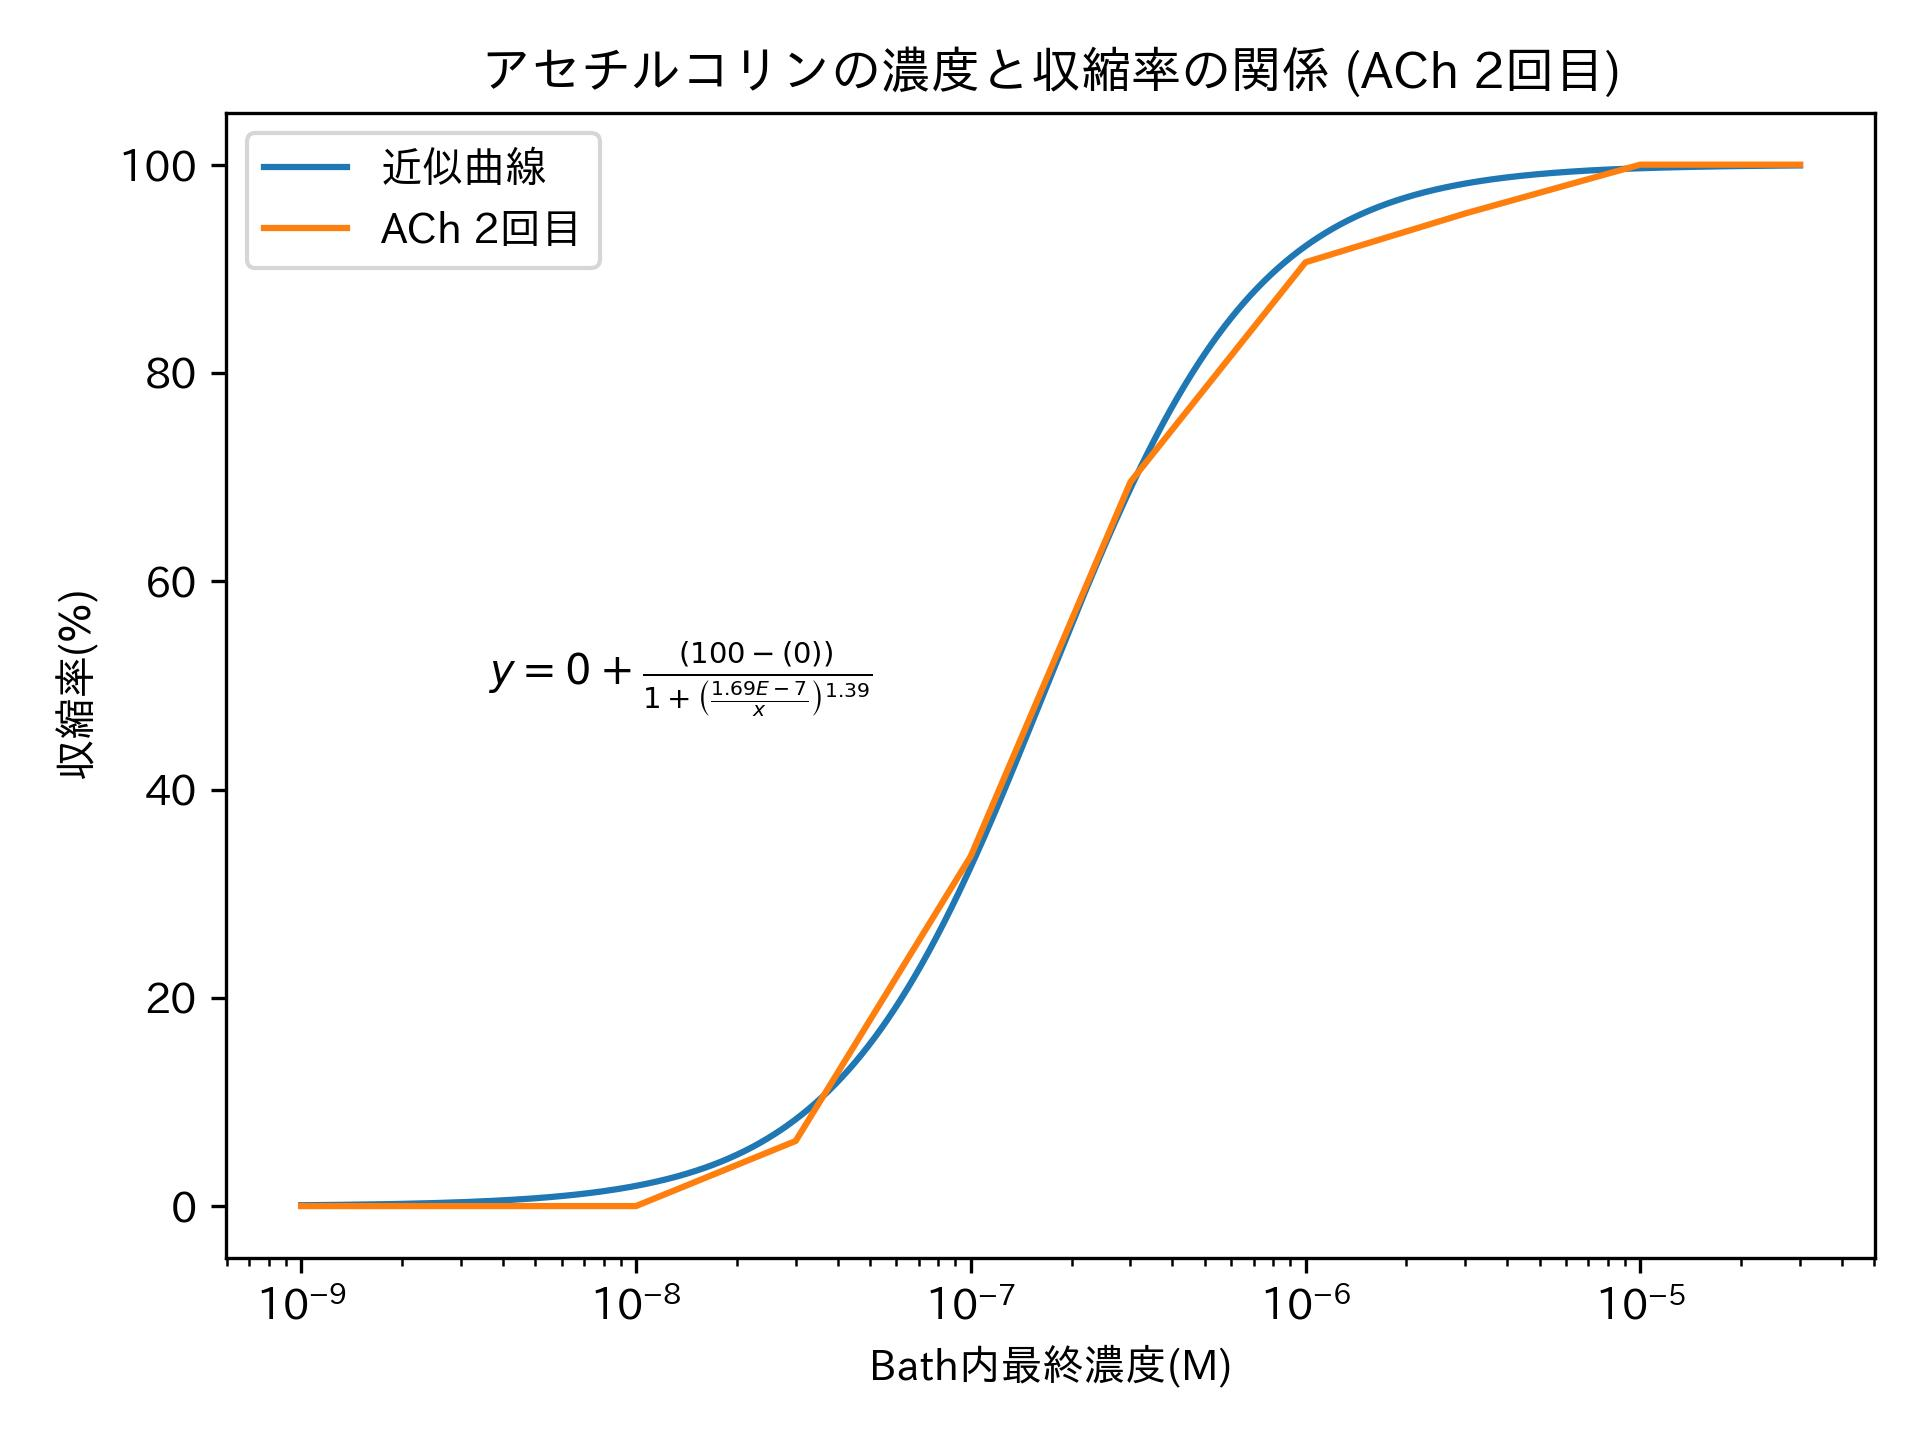
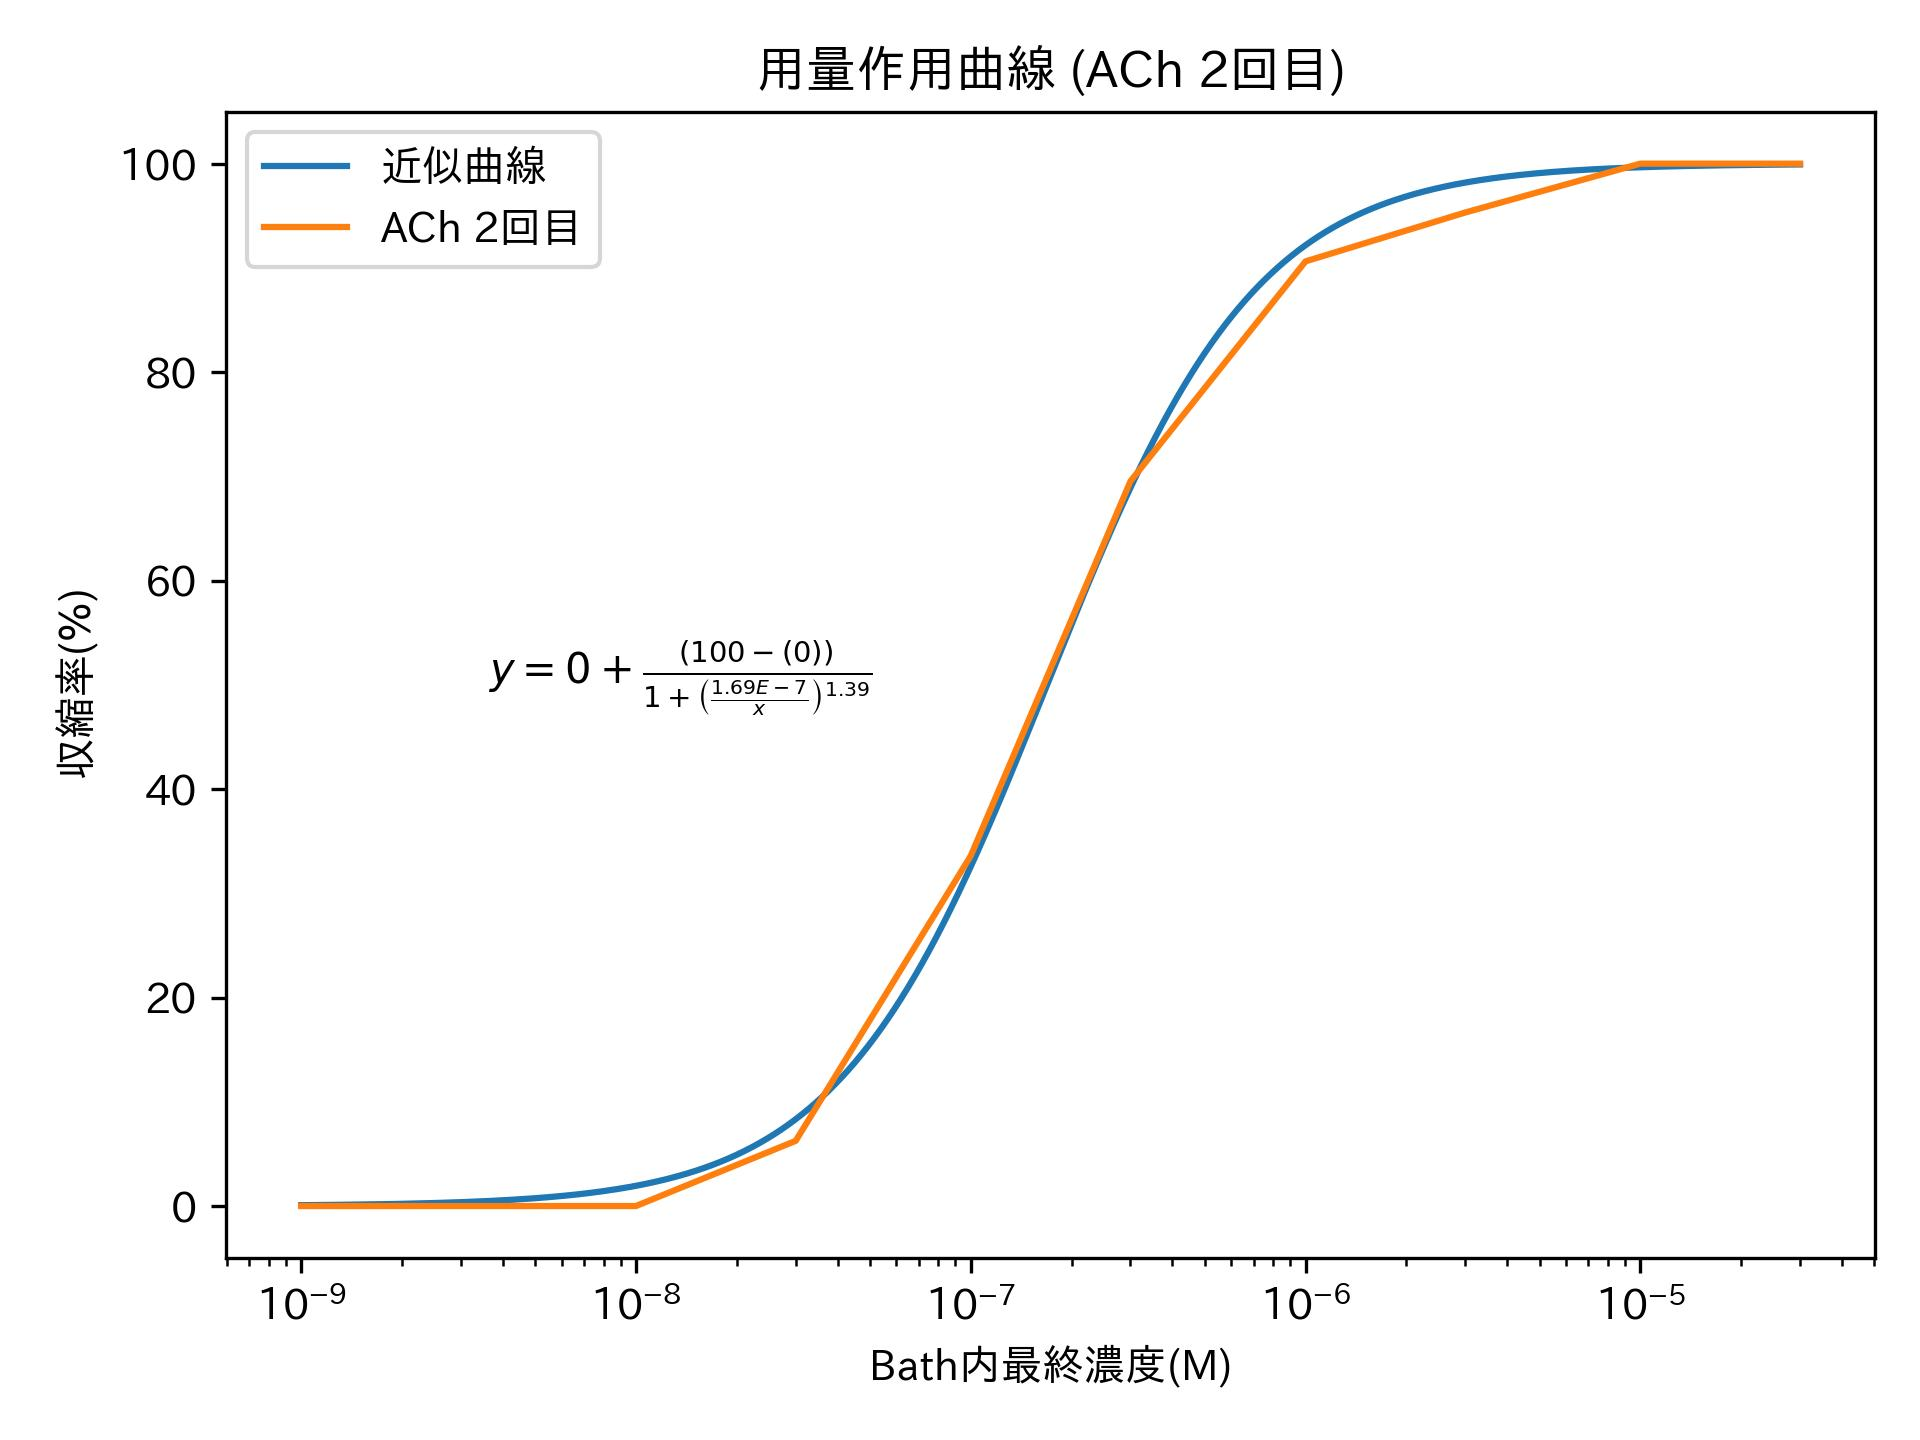
Secondary commit

diff --git a/main.py b/main.py
@@ -77,7 +77,7 @@ for key in Shrinkages:
 
 # graph
 def graph_processing(img_name, output_path, title):
-    plt.title("アセチルコリンの濃度と収縮率の関係" + title)
+    plt.title("用量作用曲線" + title)
     plt.xlabel("Bath内最終濃度(M)")
     plt.xscale("log")
     plt.ylabel("収縮率($\%$)")
